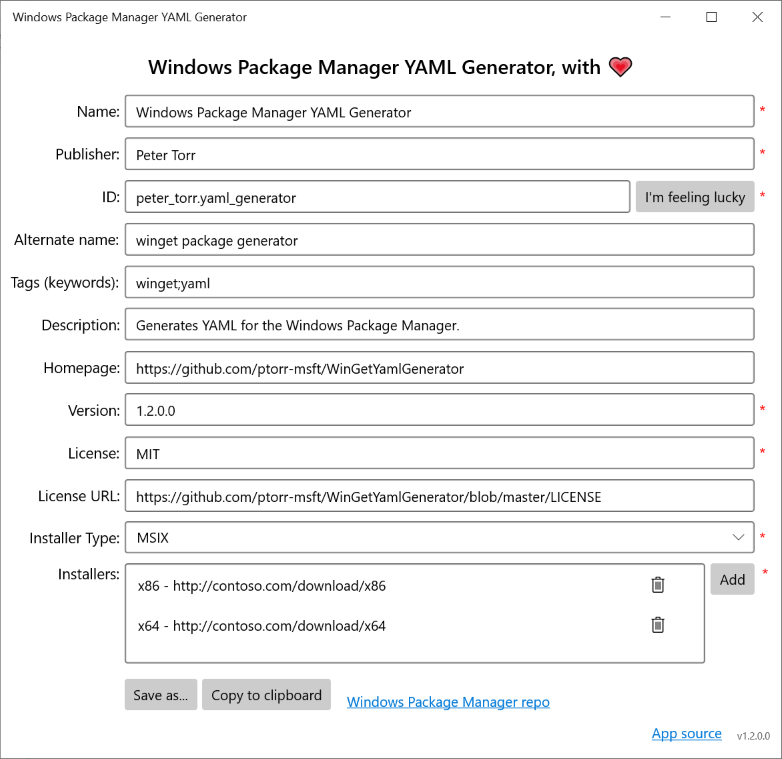
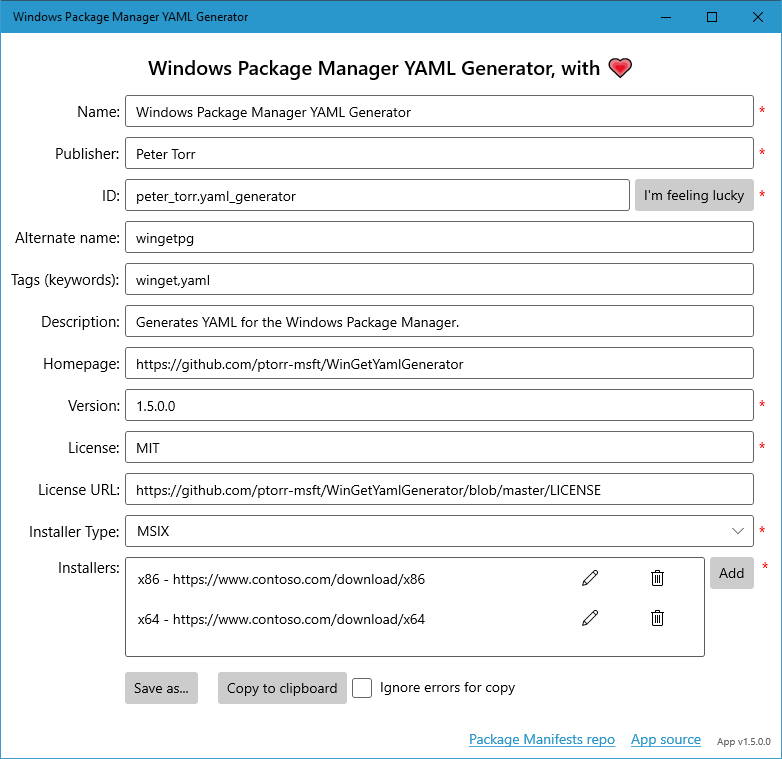
Add other installer types and UI tweaks (#25)
* Added "edit" button to list of installers, and added other installer types to popup dialog.

* Made installers list expandable vertically.

* Create symbols for store packages

diff --git a/src/WinGetYamlGenerator/MainPage.xaml b/src/WinGetYamlGenerator/MainPage.xaml
@@ -26,133 +26,139 @@
         <Grid x:Name="MainContentContainer" Grid.Row="0" HorizontalAlignment="Stretch" VerticalAlignment="Stretch">
             <ScrollViewer x:Name="MainContentScrollViewer">
                 <Grid Margin="10">
-                    <StackPanel>
-                        <TextBlock Text="Windows Package Manager YAML Generator, with 💗" FontSize="20" FontWeight="SemiBold" Margin="0,10" HorizontalAlignment="Center"/>
-                        <Grid>
+                    <Grid>
+                        <Grid.ColumnDefinitions>
+                            <ColumnDefinition Width="Auto"/>
+                            <ColumnDefinition Width="*"/>
+                            <ColumnDefinition Width="Auto"/>
+                        </Grid.ColumnDefinitions>
+                        <Grid.RowDefinitions>
+                            <RowDefinition Height="Auto"/>
+                            <RowDefinition Height="Auto"/>
+                            <RowDefinition Height="Auto"/>
+                            <RowDefinition Height="Auto"/>
+                            <RowDefinition Height="Auto"/>
+                            <RowDefinition Height="Auto"/>
+                            <RowDefinition Height="Auto"/>
+                            <RowDefinition Height="Auto"/>
+                            <RowDefinition Height="Auto"/>
+                            <RowDefinition Height="Auto"/>
+                            <RowDefinition Height="Auto"/>
+                            <RowDefinition Height="Auto"/>
+                            <RowDefinition Height="*"/>
+                            <RowDefinition Height="Auto"/>
+                        </Grid.RowDefinitions>
+
+                        <!--Banner-->
+                        <TextBlock Grid.Row="0" Grid.Column="0" Grid.ColumnSpan="3" Text="Windows Package Manager YAML Generator, with 💗" FontSize="20" FontWeight="SemiBold" Margin="0,10" HorizontalAlignment="Center"/>
+
+                        <!--Name-->
+                        <TextBlock Grid.Row="1" Grid.Column="0" Text="Name:" Margin="0,0,5,0" HorizontalAlignment="Right" VerticalAlignment="Center"/>
+                        <TextBox Grid.Row="1" Grid.Column="1" Text="{x:Bind AppInfo.Name}" HorizontalAlignment="Stretch" Margin="0,5" AccessKey="N" />
+                        <TextBlock Grid.Row="1" Grid.Column="2" Text="*" Foreground="Red" Margin="5,0" HorizontalAlignment="Center" VerticalAlignment="Center"/>
+
+                        <!--Publisher-->
+                        <TextBlock Grid.Row="2" Grid.Column="0" Text="Publisher:" Margin="0,0,5,0" HorizontalAlignment="Right" VerticalAlignment="Center"/>
+                        <TextBox Grid.Row="2" Grid.Column="1" Text="{x:Bind AppInfo.Publisher}" HorizontalAlignment="Stretch" Margin="0,5" AccessKey="P"/>
+                        <TextBlock Grid.Row="2" Grid.Column="2" Text="*" Foreground="Red" Margin="5,0" HorizontalAlignment="Center" VerticalAlignment="Center"/>
+
+                        <!--ID-->
+                        <TextBlock Grid.Row="3" Grid.Column="0" Text="ID:" Margin="0,0,5,0" HorizontalAlignment="Right" VerticalAlignment="Center"/>
+                        <Grid Grid.Row="3" Grid.Column="1" HorizontalAlignment="Stretch" Margin="0,5">
                             <Grid.ColumnDefinitions>
-                                <ColumnDefinition Width="Auto"/>
                                 <ColumnDefinition Width="*"/>
                                 <ColumnDefinition Width="Auto"/>
                             </Grid.ColumnDefinitions>
-                            <Grid.RowDefinitions>
-                                <RowDefinition Height="Auto"/>
-                                <RowDefinition Height="Auto"/>
-                                <RowDefinition Height="Auto"/>
-                                <RowDefinition Height="Auto"/>
-                                <RowDefinition Height="Auto"/>
-                                <RowDefinition Height="Auto"/>
-                                <RowDefinition Height="Auto"/>
-                                <RowDefinition Height="Auto"/>
-                                <RowDefinition Height="Auto"/>
-                                <RowDefinition Height="Auto"/>
-                                <RowDefinition Height="Auto"/>
-                                <RowDefinition Height="Auto"/>
-                                <RowDefinition Height="Auto"/>
-                            </Grid.RowDefinitions>
-
-                            <!--Name-->
-                            <TextBlock Grid.Row="0" Grid.Column="0" Text="Name:" Margin="0,0,5,0" HorizontalAlignment="Right" VerticalAlignment="Center"/>
-                            <TextBox Grid.Row="0" Grid.Column="1" Text="{x:Bind AppInfo.Name}" HorizontalAlignment="Stretch" Margin="0,5" AccessKey="N" />
-                            <TextBlock Grid.Row="0" Grid.Column="2" Text="*" Foreground="Red" Margin="5,0" HorizontalAlignment="Center" VerticalAlignment="Center"/>
-
-                            <!--Publisher-->
-                            <TextBlock Grid.Row="1" Grid.Column="0" Text="Publisher:" Margin="0,0,5,0" HorizontalAlignment="Right" VerticalAlignment="Center"/>
-                            <TextBox Grid.Row="1" Grid.Column="1" Text="{x:Bind AppInfo.Publisher}" HorizontalAlignment="Stretch" Margin="0,5" AccessKey="P"/>
-                            <TextBlock Grid.Row="1" Grid.Column="2" Text="*" Foreground="Red" Margin="5,0" HorizontalAlignment="Center" VerticalAlignment="Center"/>
-
-                            <!--ID-->
-                            <TextBlock Grid.Row="2" Grid.Column="0" Text="ID:" Margin="0,0,5,0" HorizontalAlignment="Right" VerticalAlignment="Center"/>
-                            <Grid Grid.Row="2" Grid.Column="1" HorizontalAlignment="Stretch" Margin="0,5">
-                                <Grid.ColumnDefinitions>
-                                    <ColumnDefinition Width="*"/>
-                                    <ColumnDefinition Width="Auto"/>
-                                </Grid.ColumnDefinitions>
-                                <TextBox Grid.Row="0" Grid.Column="0" Text="{x:Bind AppInfo.Id}" AccessKey="I"/>
-                                <Button Grid.Row="0" Grid.Column="1" Content="I'm feeling lucky" Click="{x:Bind AppInfo.GenerateSuggestedAppId}" Margin="5,0,0,0" AccessKey="Y"/>
-                            </Grid>
-                            <TextBlock Grid.Row="2" Grid.Column="2" Text="*" Foreground="Red" Margin="5,0" HorizontalAlignment="Center" VerticalAlignment="Center"/>
-
-                            <!--Moniker-->
-                            <TextBlock Grid.Row="3" Grid.Column="0" Text="Alternate name:" Margin="0,0,5,0" HorizontalAlignment="Right" VerticalAlignment="Center"/>
-                            <TextBox Grid.Row="3" Grid.Column="1" Text="{x:Bind AppInfo.Moniker}" HorizontalAlignment="Stretch" Margin="0,5" AccessKey="E"/>
-
-                            <!--Keywords-->
-                            <TextBlock Grid.Row="4" Grid.Column="0" Text="Tags (keywords):" Margin="0,0,5,0" HorizontalAlignment="Right" VerticalAlignment="Center"/>
-                            <TextBox Grid.Row="4" Grid.Column="1" Text="{x:Bind AppInfo.Tags}" HorizontalAlignment="Stretch" Margin="0,5" AccessKey="T"/>
-
-                            <!--Description-->
-                            <TextBlock Grid.Row="5" Grid.Column="0" Text="Description:" Margin="0,0,5,0" HorizontalAlignment="Right" VerticalAlignment="Center"/>
-                            <TextBox Grid.Row="5" Grid.Column="1" Text="{x:Bind AppInfo.Description}" HorizontalAlignment="Stretch" Margin="0,5" AccessKey="D"/>
-
-                            <!--Homepage-->
-                            <TextBlock Grid.Row="6" Grid.Column="0" Text="Homepage:" Margin="0,0,5,0" HorizontalAlignment="Right" VerticalAlignment="Center"/>
-                            <TextBox Grid.Row="6" Grid.Column="1" Text="{x:Bind AppInfo.Homepage, Converter={StaticResource UriValueConverter}}" HorizontalAlignment="Stretch" Margin="0,5" AccessKey="H"/>
-
-                            <!--Version-->
-                            <TextBlock Grid.Row="7" Grid.Column="0" Text="Version:" Margin="0,0,5,0" HorizontalAlignment="Right" VerticalAlignment="Center"/>
-                            <TextBox Grid.Row="7" Grid.Column="1" Text="{x:Bind AppInfo.Version, Converter={StaticResource VersionValueConverter}}" HorizontalAlignment="Stretch" Margin="0,5" AccessKey="V" />
-                            <TextBlock Grid.Row="7" Grid.Column="2" Text="*" Foreground="Red" Margin="5,0" HorizontalAlignment="Center" VerticalAlignment="Center"/>
-
-                            <!--License-->
-                            <TextBlock Grid.Row="8" Grid.Column="0" Text="License:" Margin="0,0,5,0" HorizontalAlignment="Right" VerticalAlignment="Center"/>
-                            <TextBox Grid.Row="8" Grid.Column="1" Text="{x:Bind AppInfo.License}" HorizontalAlignment="Stretch" Margin="0,5" AccessKey="L"/>
-                            <TextBlock Grid.Row="8" Grid.Column="2" Text="*" Foreground="Red" Margin="5,0" HorizontalAlignment="Center" VerticalAlignment="Center"/>
-
-                            <!--License URL-->
-                            <TextBlock Grid.Row="9" Grid.Column="0" Text="License URL:" Margin="0,0,5,0" HorizontalAlignment="Right" VerticalAlignment="Center"/>
-                            <TextBox Grid.Row="9" Grid.Column="1" Text="{x:Bind AppInfo.LicenseUri, Converter={StaticResource UriValueConverter}}" HorizontalAlignment="Stretch" Margin="0,5" AccessKey="U"/>
-
-                            <!--Installer Type-->
-                            <TextBlock Grid.Row="10" Grid.Column="0" Text="Installer Type:" Margin="0,0,5,0" HorizontalAlignment="Right" VerticalAlignment="Center"/>
-                            <ComboBox Grid.Row="10" Grid.Column="1" SelectedIndex="{x:Bind AppInfo.InstallerKind, Converter={StaticResource InstallerKindValueConverter}}" Margin="0,5" HorizontalAlignment="Stretch" AccessKey="Q">
-                                <ComboBox.Items>
-                                    <x:String>EXE</x:String>
-                                    <x:String>MSI</x:String>
-                                    <x:String>MSIX</x:String>
-                                    <x:String>APPX</x:String>
-                                    <x:String>INNO</x:String>
-                                    <x:String>WIX</x:String>
-                                    <x:String>NULLSOFT</x:String>
-                                </ComboBox.Items>
-                            </ComboBox>
-                            <TextBlock Grid.Row="10" Grid.Column="2" Text="*" Foreground="Red" Margin="5,0" HorizontalAlignment="Center" VerticalAlignment="Center"/>
-
-                            <!-- Installers -->
-                            <TextBlock Grid.Row="11" Grid.Column="0" Text="Installers:" Margin="0,5,5,0" HorizontalAlignment="Right" VerticalAlignment="Top" />
-                            <Grid Grid.Row="11" Grid.Column="1" Margin="0,5" Height="100">
-                                <Grid.ColumnDefinitions>
-                                    <ColumnDefinition Width="*"/>
-                                    <ColumnDefinition Width="Auto"/>
-                                </Grid.ColumnDefinitions>
-                                <ListView Grid.Column="0" BorderBrush="{ThemeResource TextBoxBorderThemeBrush}" BorderThickness="{ThemeResource TextControlBorderThemeThickness}" ItemsSource="{x:Bind AppInfo.Installers, Mode=OneTime}" AccessKey="Z" build1809OrNewer:CornerRadius="2">
-                                    <ListView.ItemContainerStyle>
-                                        <Style TargetType="ListViewItem">
-                                            <Setter Property="HorizontalContentAlignment" Value="Stretch"/>
-                                        </Style>
-                                    </ListView.ItemContainerStyle>
-                                    <ListView.ItemTemplate >
-                                        <DataTemplate x:DataType="local:InstallerInfo" >
-                                            <Grid HorizontalAlignment="Stretch">
-                                                <TextBlock Text="{x:Bind DisplayName, Mode=OneWay}" VerticalAlignment="Center" HorizontalAlignment="Left"/>
-                                                <AppBarButton Icon="Delete" Label="Delete" Click="RemoveInstallerWithUi"  HorizontalAlignment="Right" LabelPosition="Collapsed" />
-                                            </Grid>
-                                        </DataTemplate>
-                                    </ListView.ItemTemplate>
-                                </ListView>
-                                <Button Grid.Column="1" Content="Add" VerticalAlignment="Top" Margin="5,0,0,0" Click="AddNewInstallerWithUi" AccessKey="A"/>
-                            </Grid>
-                            <TextBlock Grid.Row="11" Grid.Column="2" Text="*" Foreground="Red" Margin="5,5,0,0" HorizontalAlignment="Center" VerticalAlignment="Top" />
-
-                            <!--Save-->
-                            <StackPanel Orientation="Horizontal"  Grid.Row="12" Grid.Column="1" Margin="0,10,0,0" >
-                                <Button Content="Save as..." Click="SaveAsFile" AccessKey="S" />
-                                <Button Content="Copy to clipboard" Click="CopyToClipboard" x:Name="btnCopy" Margin="20,0,0,0" AccessKey="C"/>
-                                <CheckBox Content="Ignore errors for copy" IsChecked="False" x:Name="chkIgnoreErrors" Margin="5,0,0,0" AccessKey="K"/>
-                            </StackPanel>
+                            <TextBox Grid.Row="0" Grid.Column="0" Text="{x:Bind AppInfo.Id}" AccessKey="I"/>
+                            <Button Grid.Row="0" Grid.Column="1" Content="I'm feeling lucky" Click="{x:Bind AppInfo.GenerateSuggestedAppId}" Margin="5,0,0,0" AccessKey="Y"/>
                         </Grid>
-                    </StackPanel>
-                </Grid>
+                        <TextBlock Grid.Row="3" Grid.Column="2" Text="*" Foreground="Red" Margin="5,0" HorizontalAlignment="Center" VerticalAlignment="Center"/>
 
+                        <!--Moniker-->
+                        <TextBlock Grid.Row="4" Grid.Column="0" Text="Alternate name:" Margin="0,0,5,0" HorizontalAlignment="Right" VerticalAlignment="Center"/>
+                        <TextBox Grid.Row="4" Grid.Column="1" Text="{x:Bind AppInfo.Moniker}" HorizontalAlignment="Stretch" Margin="0,5" AccessKey="E"/>
+
+                        <!--Keywords-->
+                        <TextBlock Grid.Row="5" Grid.Column="0" Text="Tags (keywords):" Margin="0,0,5,0" HorizontalAlignment="Right" VerticalAlignment="Center"/>
+                        <TextBox Grid.Row="5" Grid.Column="1" Text="{x:Bind AppInfo.Tags}" HorizontalAlignment="Stretch" Margin="0,5" AccessKey="T"/>
+
+                        <!--Description-->
+                        <TextBlock Grid.Row="6" Grid.Column="0" Text="Description:" Margin="0,0,5,0" HorizontalAlignment="Right" VerticalAlignment="Center"/>
+                        <TextBox Grid.Row="6" Grid.Column="1" Text="{x:Bind AppInfo.Description}" HorizontalAlignment="Stretch" Margin="0,5" AccessKey="D"/>
+
+                        <!--Homepage-->
+                        <TextBlock Grid.Row="7" Grid.Column="0" Text="Homepage:" Margin="0,0,5,0" HorizontalAlignment="Right" VerticalAlignment="Center"/>
+                        <TextBox Grid.Row="7" Grid.Column="1" Text="{x:Bind AppInfo.Homepage, Converter={StaticResource UriValueConverter}}" HorizontalAlignment="Stretch" Margin="0,5" AccessKey="H"/>
+
+                        <!--Version-->
+                        <TextBlock Grid.Row="8" Grid.Column="0" Text="Version:" Margin="0,0,5,0" HorizontalAlignment="Right" VerticalAlignment="Center"/>
+                        <TextBox Grid.Row="8" Grid.Column="1" Text="{x:Bind AppInfo.Version, Converter={StaticResource VersionValueConverter}}" HorizontalAlignment="Stretch" Margin="0,5" AccessKey="V" />
+                        <TextBlock Grid.Row="8" Grid.Column="2" Text="*" Foreground="Red" Margin="5,0" HorizontalAlignment="Center" VerticalAlignment="Center"/>
+
+                        <!--License-->
+                        <TextBlock Grid.Row="9" Grid.Column="0" Text="License:" Margin="0,0,5,0" HorizontalAlignment="Right" VerticalAlignment="Center"/>
+                        <TextBox Grid.Row="9" Grid.Column="1" Text="{x:Bind AppInfo.License}" HorizontalAlignment="Stretch" Margin="0,5" AccessKey="L"/>
+                        <TextBlock Grid.Row="9" Grid.Column="2" Text="*" Foreground="Red" Margin="5,0" HorizontalAlignment="Center" VerticalAlignment="Center"/>
+
+                        <!--License URL-->
+                        <TextBlock Grid.Row="10" Grid.Column="0" Text="License URL:" Margin="0,0,5,0" HorizontalAlignment="Right" VerticalAlignment="Center"/>
+                        <TextBox Grid.Row="10" Grid.Column="1" Text="{x:Bind AppInfo.LicenseUri, Converter={StaticResource UriValueConverter}}" HorizontalAlignment="Stretch" Margin="0,5" AccessKey="U"/>
+
+                        <!--Installer Type-->
+                        <TextBlock Grid.Row="11" Grid.Column="0" Text="Installer Type:" Margin="0,0,5,0" HorizontalAlignment="Right" VerticalAlignment="Center"/>
+                        <ComboBox Grid.Row="11" Grid.Column="1" SelectedIndex="{x:Bind AppInfo.InstallerKind, Converter={StaticResource InstallerKindValueConverter}}" Margin="0,5" HorizontalAlignment="Stretch" AccessKey="Q">
+                            <ComboBox.Items>
+                                <x:String>EXE</x:String>
+                                <x:String>MSI</x:String>
+                                <x:String>MSIX</x:String>
+                                <x:String>APPX</x:String>
+                                <x:String>INNO</x:String>
+                                <x:String>WIX</x:String>
+                                <x:String>NULLSOFT</x:String>
+                            </ComboBox.Items>
+                        </ComboBox>
+                        <TextBlock Grid.Row="11" Grid.Column="2" Text="*" Foreground="Red" Margin="5,0" HorizontalAlignment="Center" VerticalAlignment="Center"/>
+
+                        <!-- Installers -->
+                        <TextBlock Grid.Row="12" Grid.Column="0" Text="Installers:" Margin="0,5,5,0" HorizontalAlignment="Right" VerticalAlignment="Top" />
+                        <Grid Grid.Row="12" Grid.Column="1" Margin="0,5" MinHeight="100">
+                            <Grid.ColumnDefinitions>
+                                <ColumnDefinition Width="*"/>
+                                <ColumnDefinition Width="Auto"/>
+                            </Grid.ColumnDefinitions>
+                            <ListView Grid.Column="0" BorderBrush="{ThemeResource TextBoxBorderThemeBrush}" BorderThickness="{ThemeResource TextControlBorderThemeThickness}" ItemsSource="{x:Bind AppInfo.Installers, Mode=OneTime}" AccessKey="Z" build1809OrNewer:CornerRadius="2">
+                                <ListView.ItemContainerStyle>
+                                    <Style TargetType="ListViewItem">
+                                        <Setter Property="HorizontalContentAlignment" Value="Stretch"/>
+                                    </Style>
+                                </ListView.ItemContainerStyle>
+                                <ListView.ItemTemplate>
+                                    <DataTemplate x:DataType="local:InstallerInfo" >
+                                        <Grid HorizontalAlignment="Stretch">
+                                            <Grid.ColumnDefinitions>
+                                                <ColumnDefinition Width="*"/>
+                                                <ColumnDefinition Width="Auto"/>
+                                                <ColumnDefinition Width="Auto"/>
+                                            </Grid.ColumnDefinitions>
+                                            <TextBlock Grid.Column="0" Text="{x:Bind DisplayName, Mode=OneWay}" VerticalAlignment="Center" HorizontalAlignment="Left"/>
+                                            <AppBarButton Grid.Column="1" Icon="Edit" Label="Edit" Click="EditInstallerWithUi" LabelPosition="Collapsed"/>
+                                            <AppBarButton Grid.Column="2" Icon="Delete" Label="Delete" Click="RemoveInstallerWithUi"  LabelPosition="Collapsed"/>
+                                        </Grid>
+                                    </DataTemplate>
+                                </ListView.ItemTemplate>
+                            </ListView>
+                            <Button Grid.Column="1" Content="Add" VerticalAlignment="Top" Margin="5,0,0,0" Click="AddNewInstallerWithUi" AccessKey="A"/>
+                        </Grid>
+                        <TextBlock Grid.Row="12" Grid.Column="2" Text="*" Foreground="Red" Margin="5,5,0,0" HorizontalAlignment="Center" VerticalAlignment="Top" />
+
+                        <!--Save-->
+                        <StackPanel Grid.Row="13" Grid.Column="1" Orientation="Horizontal" Margin="0,10,0,0" >
+                            <Button Content="Save as..." Click="SaveAsFile" AccessKey="S" />
+                            <Button Content="Copy to clipboard" Click="CopyToClipboard" x:Name="btnCopy" Margin="20,0,0,0" AccessKey="C"/>
+                            <CheckBox Content="Ignore errors for copy" IsChecked="False" x:Name="chkIgnoreErrors" Margin="5,0,0,0" AccessKey="K"/>
+                        </StackPanel>
+                    </Grid>
+                </Grid>
             </ScrollViewer>
 
             <ContentDialog x:Name="InstallerPopup" HorizontalContentAlignment="Stretch" Title="Installer details"
@@ -191,16 +197,20 @@
                                 </ComboBox.Items>
                             </ComboBox>
                             <TextBlock Grid.Column="1" Text="*" Foreground="Red" Margin="5,23,20,0" HorizontalAlignment="Center" VerticalAlignment="Center"/>
-                            
+
                             <ComboBox Grid.Column="2" SelectedIndex="{x:Bind CurrentlyEditingInstallerInfo.InstallerKind, Converter={StaticResource InstallerKindValueConverter}}" AccessKey="M" Header="Installer type" HorizontalAlignment="Stretch">
                                 <ComboBox.Items>
                                     <x:String>EXE</x:String>
                                     <x:String>MSI</x:String>
                                     <x:String>MSIX</x:String>
+                                    <x:String>APPX</x:String>
+                                    <x:String>INNO</x:String>
+                                    <x:String>WIX</x:String>
+                                    <x:String>NULLSOFT</x:String>
                                 </ComboBox.Items>
                             </ComboBox>
                             <TextBlock Grid.Column="3" Text="*" Foreground="Red" Margin="5,23,20,0" HorizontalAlignment="Center" VerticalAlignment="Center"/>
-                            
+
                             <TextBox Grid.Column="4" Header="Language" Text="{x:Bind CurrentlyEditingInstallerInfo.Language}" HorizontalAlignment="Stretch" AccessKey="W"/>
                         </Grid>
 

diff --git a/src/WinGetYamlGenerator/MainPage.xaml.cs b/src/WinGetYamlGenerator/MainPage.xaml.cs
@@ -20,6 +20,12 @@ using Windows.UI.Xaml.Controls;
 
 namespace WinGetYamlGenerator
 {
+    // Info needed when adding / editing an installer from the list
+    struct InstallerEditingState
+    {
+        public InstallerInfo originalInstaller;
+    }
+
     /// <summary>
     /// An empty page that can be used on its own or navigated to within a Frame.
     /// </summary>
@@ -195,16 +201,39 @@ namespace WinGetYamlGenerator
             AppInfo.Installers.Remove(data);
         }
 
-        private async void AddNewInstallerWithUi(object sender, RoutedEventArgs e)
+        private void AddNewInstallerWithUi(object sender, RoutedEventArgs e)
         {
-            HideDialogErrors();
-
             var installer = new InstallerInfo
             {
                 InstallerKind = AppInfo.InstallerKind
             };
 
-            CurrentlyEditingInstallerInfo = installer;
+            _ = ShowInstallerEditWindow(installer, true);
+        }
+
+        private void EditInstallerWithUi(object sender, RoutedEventArgs e)
+        {
+            InstallerInfo installer = (sender as Control).DataContext as InstallerInfo;
+            _ = ShowInstallerEditWindow(installer, false);
+        }
+
+        async Task ShowInstallerEditWindow(InstallerInfo info, bool isNewItem)
+        {
+            HideDialogErrors();
+
+            if (isNewItem)
+            {
+                CurrentlyEditingInstallerInfo = info;
+                InstallerPopup.Tag = new InstallerEditingState();
+                InstallerPopup.PrimaryButtonText = "Add";
+            }
+            else
+            {
+                CurrentlyEditingInstallerInfo = info.Clone();
+                InstallerPopup.Tag = new InstallerEditingState { originalInstaller = info };
+                InstallerPopup.PrimaryButtonText = "Save";
+            }
+
             await InstallerPopup.ShowAsync();
         }
 
@@ -328,7 +357,18 @@ namespace WinGetYamlGenerator
             else
             {
                 HideDialogErrors();
-                AppInfo.Installers.Add(CurrentlyEditingInstallerInfo);
+
+                // Tag is used to hold info about new vs. edit.
+                var editingInfo = (InstallerEditingState)sender.Tag;
+                if (editingInfo.originalInstaller == null)
+                {
+                    AppInfo.Installers.Add(CurrentlyEditingInstallerInfo);
+                }
+                else
+                {
+                    editingInfo.originalInstaller.CopyFrom(currentlyEditingInstallerInfo);
+                }
+
                 CurrentlyEditingInstallerInfo = null;
             }
         }

diff --git a/src/WinGetYamlGenerator/InstallerInfo.cs b/src/WinGetYamlGenerator/InstallerInfo.cs
@@ -68,6 +68,24 @@ namespace WinGetYamlGenerator
             Hash = BitConverter.ToString(bytes).Replace("-", "");
         }
 
+        internal void CopyFrom(InstallerInfo other)
+        {
+            arch = other.arch;
+            kind = other.kind;
+            uri = other.uri;
+            hash = other.hash;
+            language = other.language;
+
+            RaisePropertyChanged(string.Empty);
+        }
+
+        internal InstallerInfo Clone()
+        {
+            var clone = new InstallerInfo();
+            clone.CopyFrom(this);
+            return clone;
+        }
+
         public string DisplayName => Architecture + " - " + uri.AbsoluteUri;
 
         public bool Verify(IList<string> errors)
